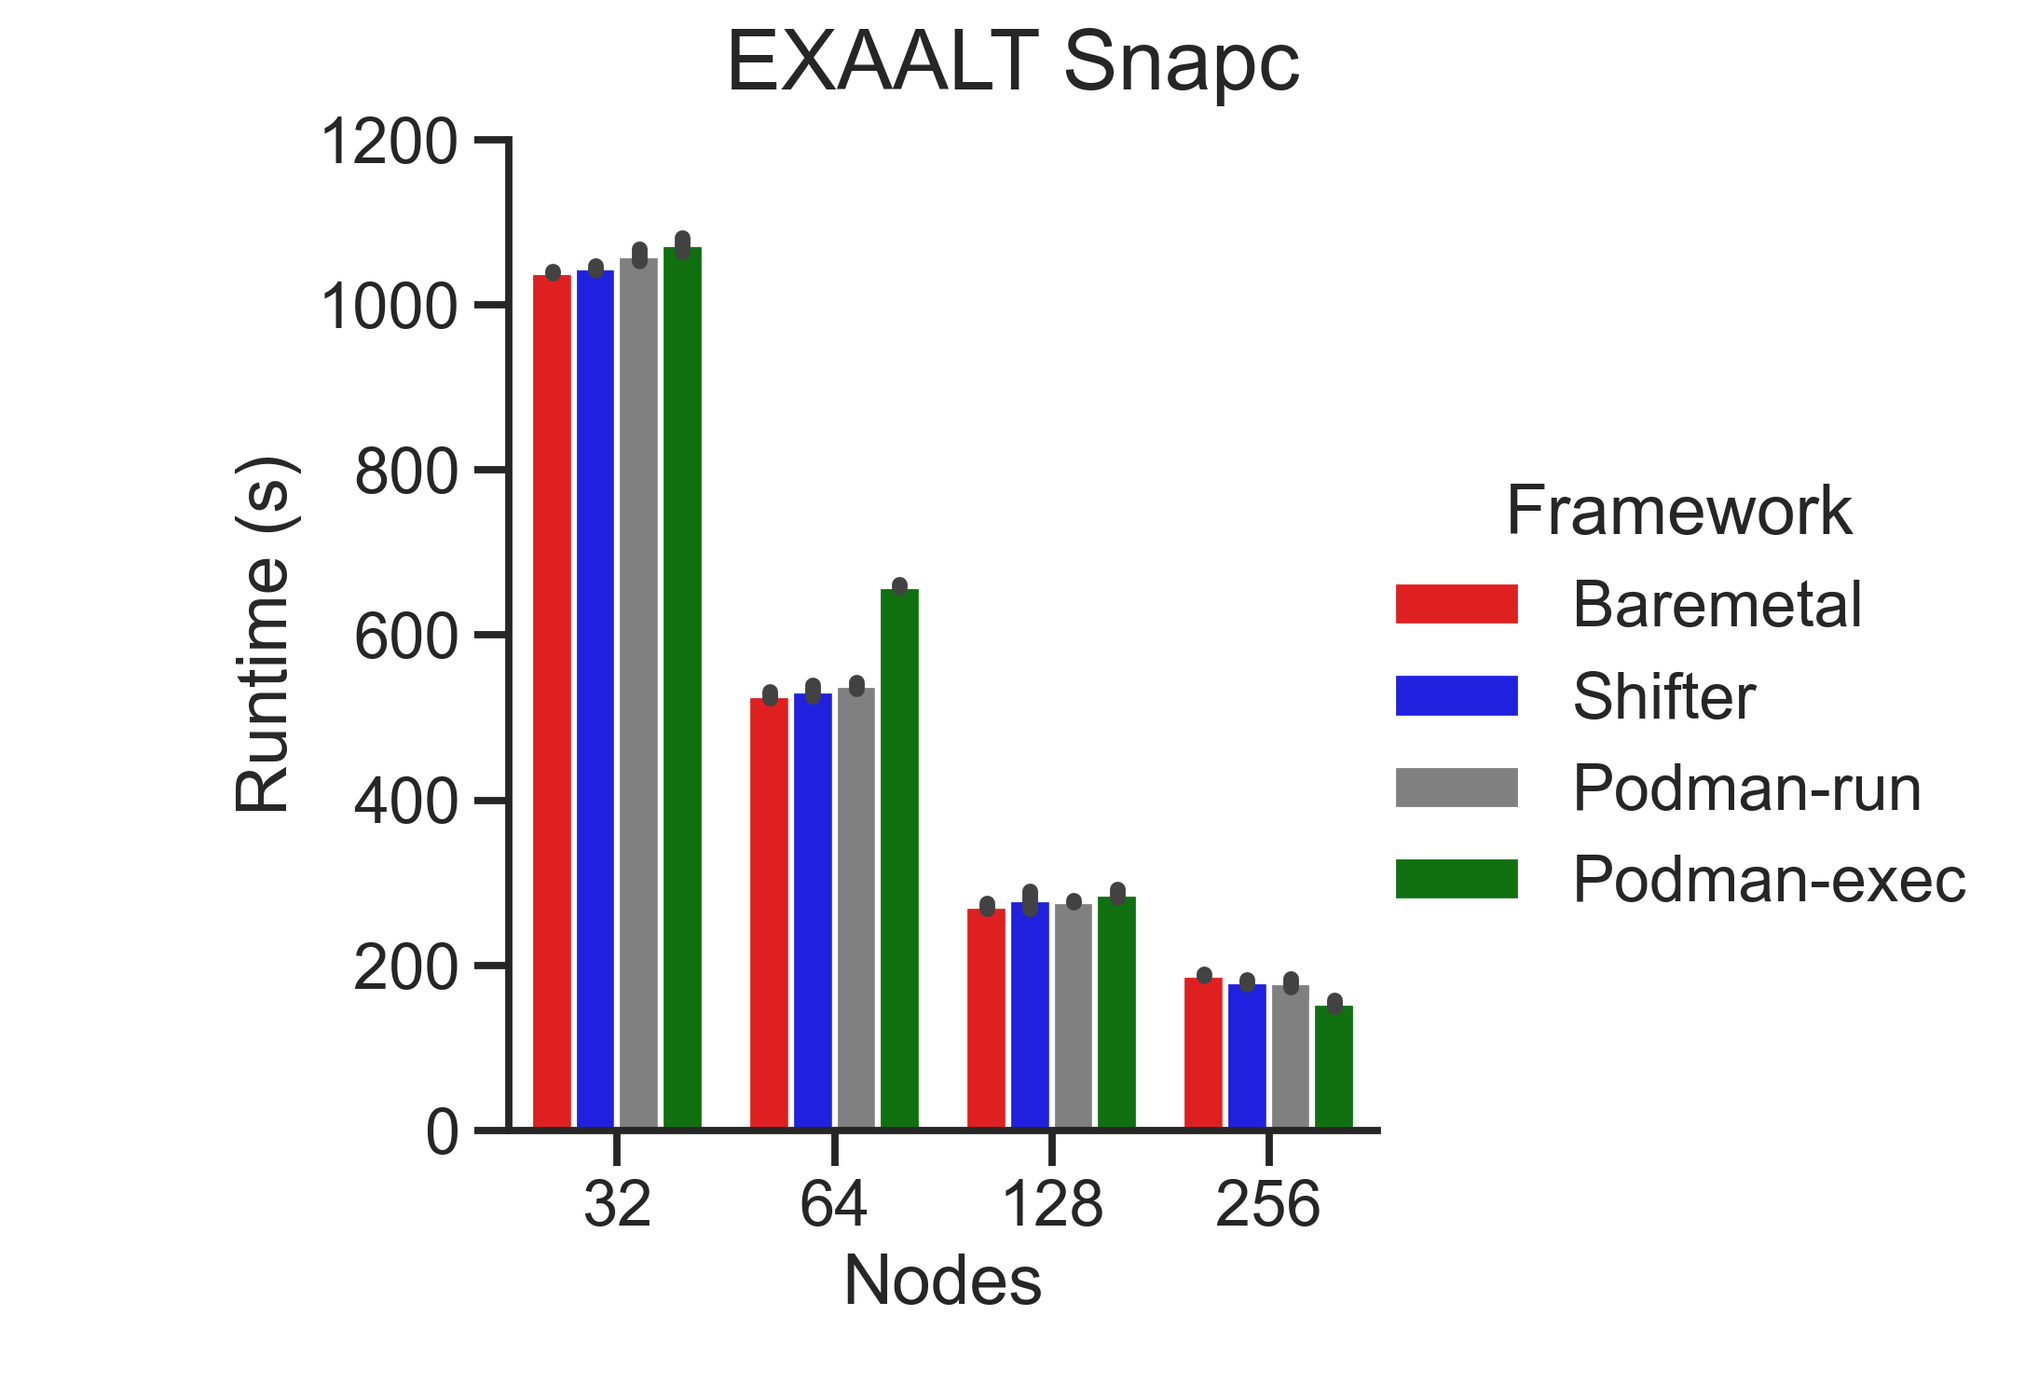
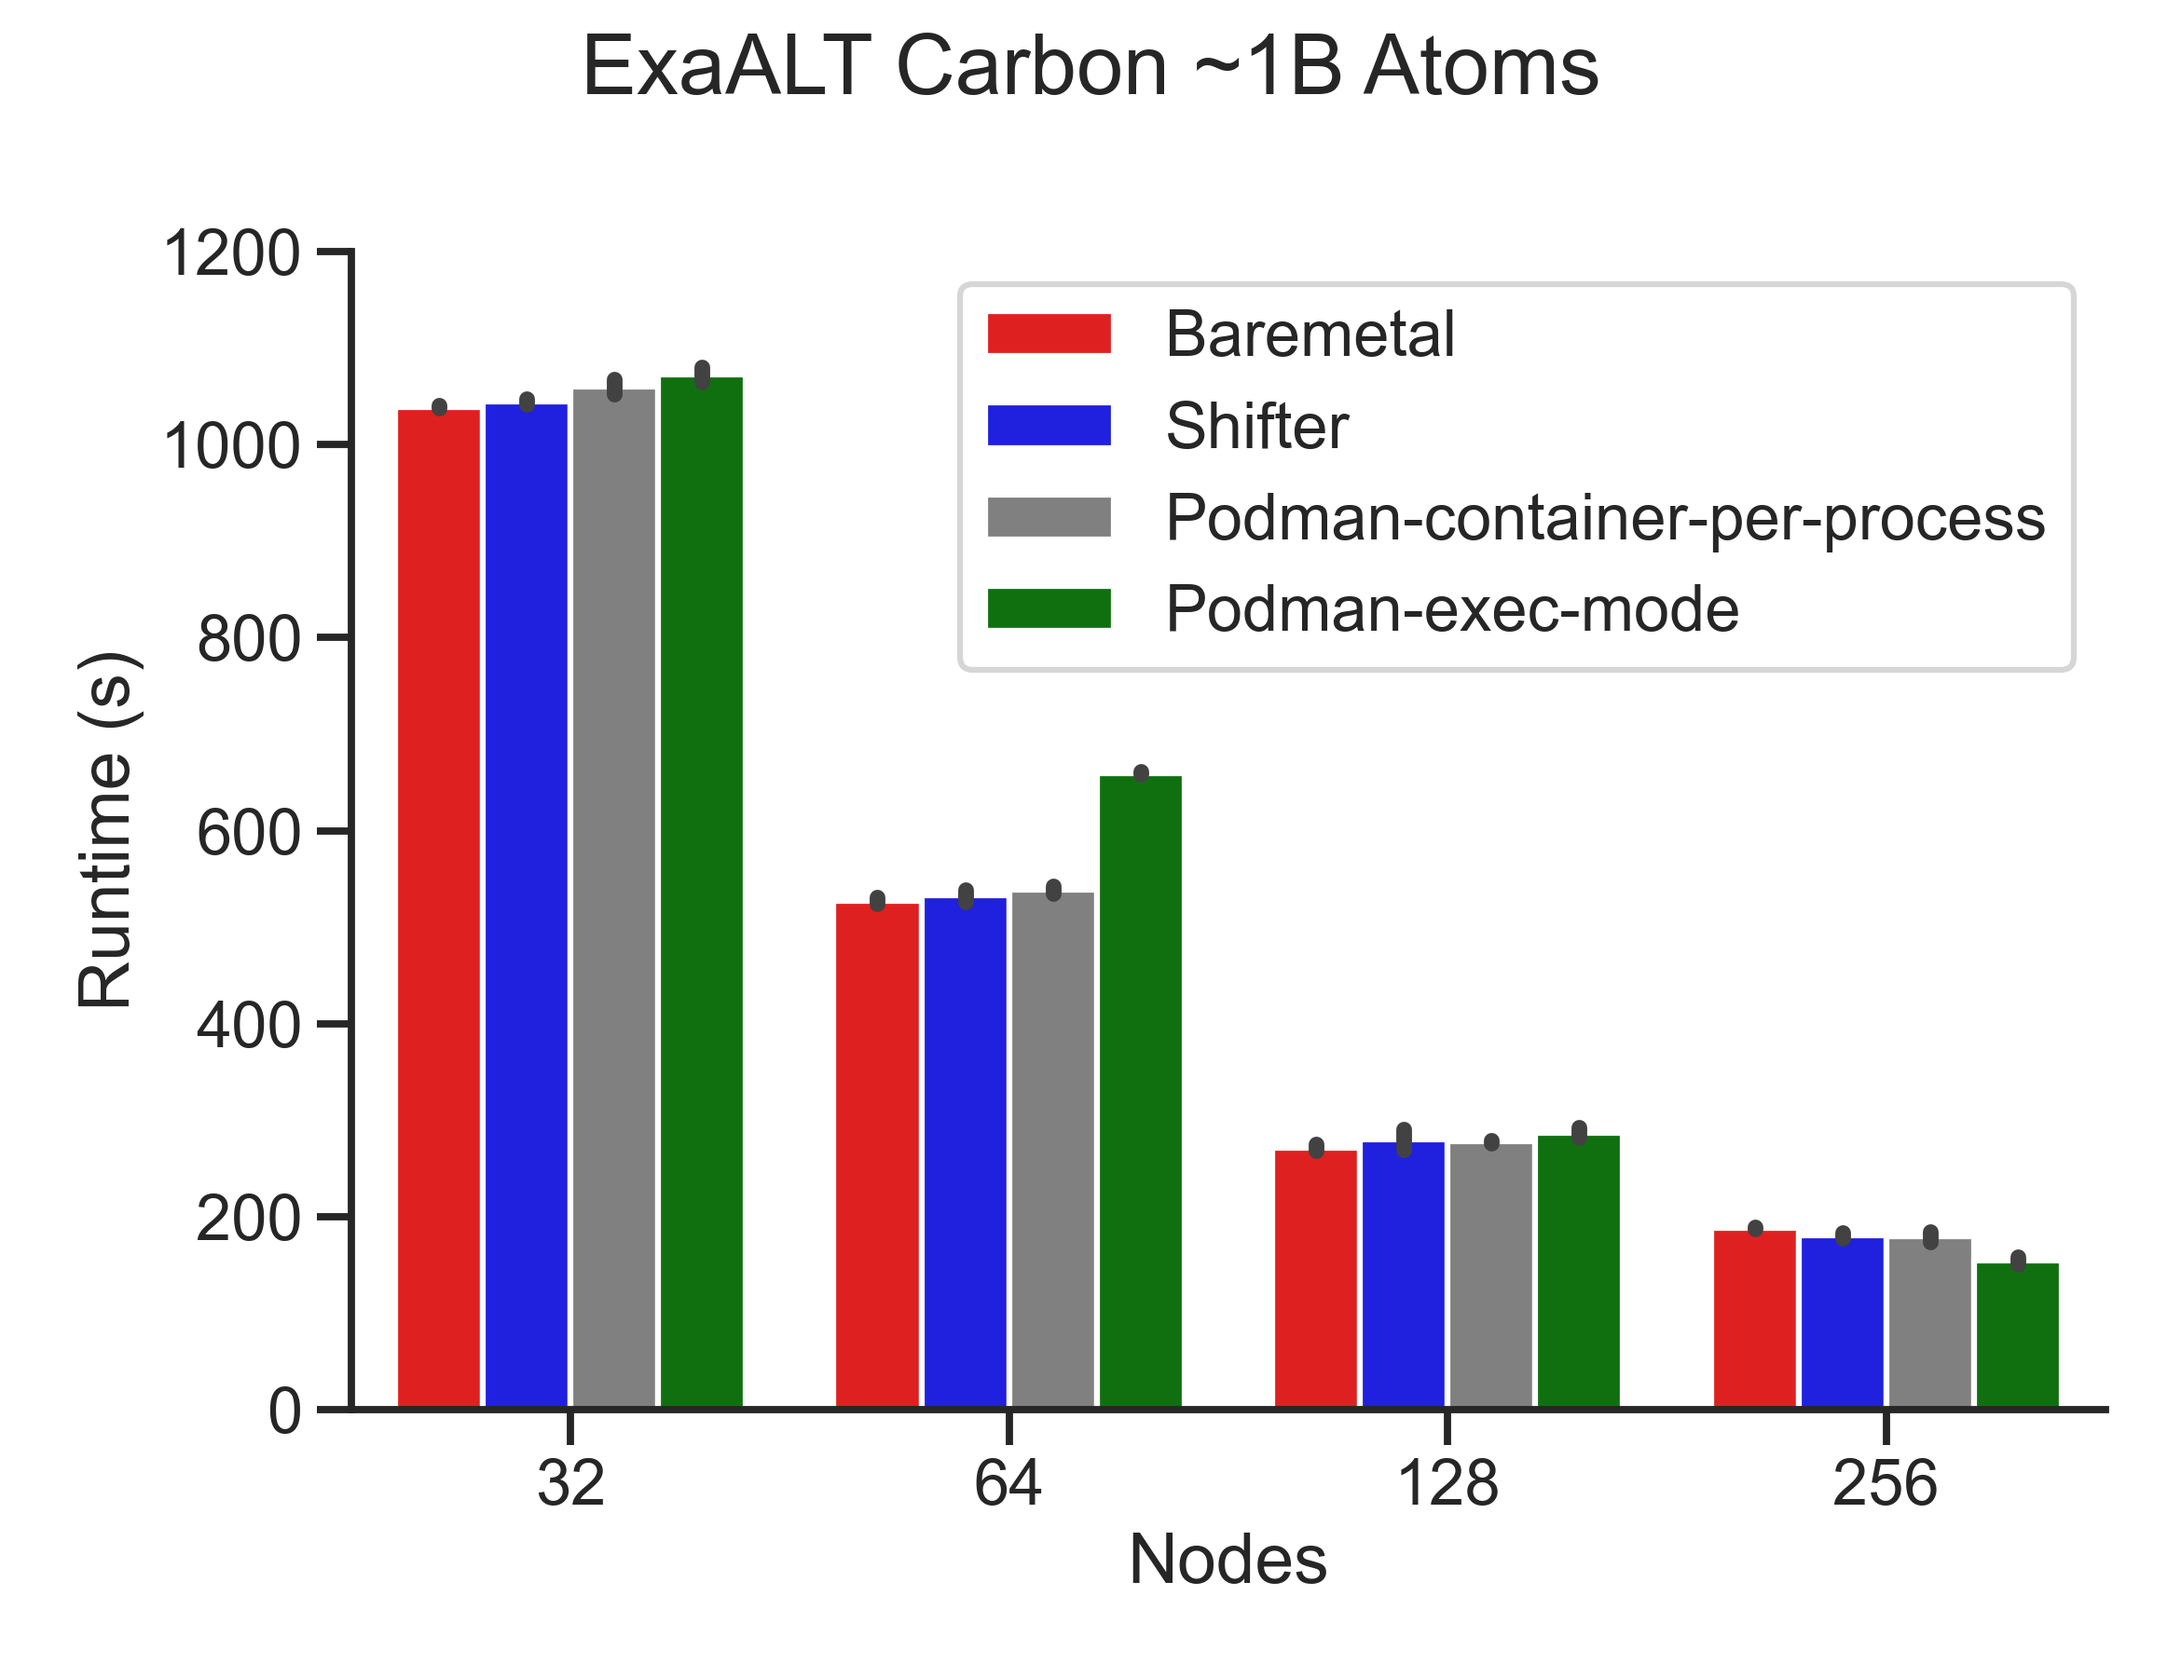
update exaalt plotting

diff --git a/exaalt/plots/plot-exaalt-benchmarks.py b/exaalt/plots/plot-exaalt-benchmarks.py
@@ -30,7 +30,7 @@ print(nodeflatlist)
 
 frameworklist = []
 for m in range(neach):
-    frameworks = ["Baremetal","Shifter","Podman-run","Podman-exec"]
+    frameworks = ["Baremetal","Shifter","Podman-container-per-process","Podman-exec-mode"]
     frameworklist.append(frameworks)
 
 frameworkflatlist = [item for sublist in frameworklist for item in sublist]
@@ -102,19 +102,28 @@ plotdf['Runtime'] = pd.to_timedelta(plotdf['Runtime'].astype(str)).dt.total_seco
 palette=dict()
 palette['Baremetal']='red'
 palette['Shifter']='blue'
-palette['Podman-run']='gray'
-palette['Podman-exec']='green'
+palette['Podman-container-per-process']='gray'
+palette['Podman-exec-mode']='green'
+
+plt.figure(figsize=(10,8))
+
 g = sns.catplot(data=plotdf, 
                 x="Nodes", 
                 y="Runtime", 
                 hue="Framework",
                 sharey=False,
                 kind="bar",
-                palette=palette
+                palette=palette,
+                legend=False,
+                height=6, 
+                aspect=1.3
 )
 
 g.set(ylim=(0,1200))
 g.fig.subplots_adjust(top=0.9)
-g.fig.suptitle('EXAALT Snapc')
+g.fig.suptitle('ExaALT Carbon ~1B Atoms')
 g.set_axis_labels("Nodes", "Runtime (s)")
+
+plt.legend()
+plt.tight_layout()
 plt.savefig("exaalt.png", dpi=300)
